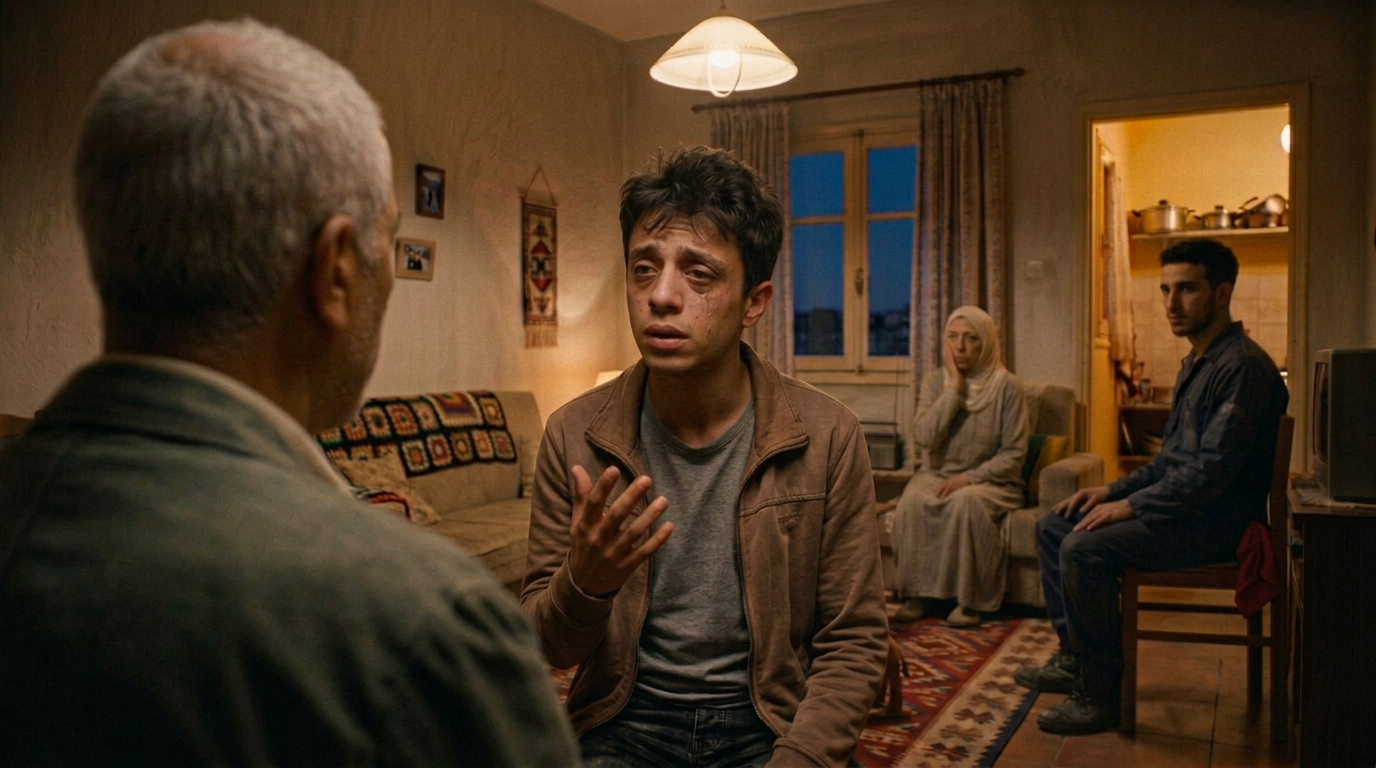
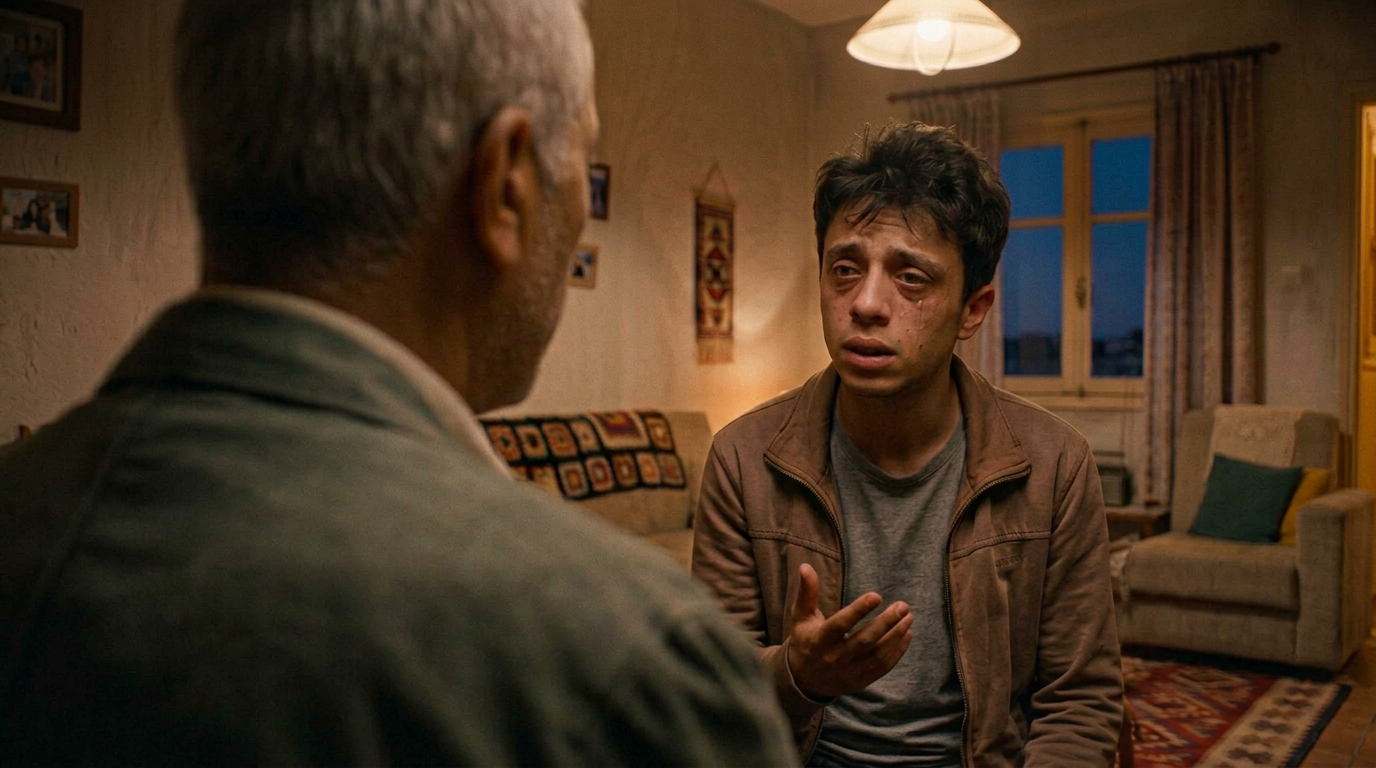
SC18_B v4.1 per client: both SEATED on sofa + tight close over-the-shoulder framing - only Yassine and Hadj in frame (no mother, no Amine); Flow prompt beats/negative/checklist updated to match

diff --git a/ATHAR_AL_ZAYT_FINAL_FILM/04_FLOW_VIDEO_PROMPTS/SC18_FLOW_PROMPT.md b/ATHAR_AL_ZAYT_FINAL_FILM/04_FLOW_VIDEO_PROMPTS/SC18_FLOW_PROMPT.md
@@ -6,7 +6,7 @@
 
 ## تقسيم الحركة والحوار (10 ثوانٍ)
 - 0–3 ث: لقطة واسعة ثابتة؛ ياسين جالس بجوار الحاج يرفع نظره قليلاً ويشرح بيد مفتوحة، والآخرون يستمعون.
-- 3–8 ث: لقطة متوسطة هادئة بمستوى الجلوس فوق كتف الحاج؛ ياسين ينظر إلى الحاج بعينين دامعتين ويقول: «دوّرت على خدمة وما لقيتش… بابا مات، وكنت حاب نعاون أمّي وختي الصغيرة.»
+- 3–8 ث: لقطة متوسطة قريبة هادئة بمستوى الجلوس فوق كتف الحاج — ياسين والحاج فقط داخل الكادر، الأم وأمين غير ظاهرين فيه؛ ياسين ينظر إلى الحاج بعينين دامعتين ويقول: «دوّرت على خدمة وما لقيتش… بابا مات، وكنت حاب نعاون أمّي وختي الصغيرة.»
 - 8–10 ث: قطع ثابت إلى كلوز وجه الحاج — عيناه ناظرتان نازلاً نحو ياسين الجالس بجانبه؛ صوت ياسين خارج الكادر يقول: «بصح عارف بلي غلطت.»
 
 ## GOOGLE FLOW VIDEO PROMPT — COPY READY (V3)
@@ -22,7 +22,7 @@ LOCATION / PROPS:
 
 ACTION AND TIMING:
 - 0–3 ث: لقطة واسعة ثابتة؛ ياسين جالس بجوار الحاج يرفع نظره قليلًا ويشرح بيد مفتوحة، والآخرون يستمعون.
-- 3–8 ث: لقطة متوسطة هادئة بمستوى الجلوس فوق كتف الحاج؛ ياسين ينظر إلى الحاج بعينين دامعتين ويقول: «دوّرت على خدمة وما لقيتش… بابا مات، وكنت حاب نعاون أمّي وختي الصغيرة.»
+- 3–8 ث: لقطة متوسطة قريبة هادئة بمستوى الجلوس فوق كتف الحاج — ياسين والحاج فقط داخل الكادر، الأم وأمين غير ظاهرين فيه؛ ياسين ينظر إلى الحاج بعينين دامعتين ويقول: «دوّرت على خدمة وما لقيتش… بابا مات، وكنت حاب نعاون أمّي وختي الصغيرة.»
 - 8–10 ث: قطع ثابت إلى كلوز وجه الحاج وهو يستمع، عيناه ناظرتان نازلاً نحو ياسين الجالس بجانبه؛ صوت ياسين خارج الكادر يقول: «بصح عارف بلي غلطت.»
 
 DIALOGUE — natural Algerian Darja only, spoken by native Algerian voices, never Modern Standard Arabic:
@@ -45,7 +45,7 @@ FORMAT: Horizontal landscape 16:9 only. Never vertical 9:16, never portrait, nev
 ## NEGATIVE PROMPT — COPY READY
 
 ```text
-No vertical 9:16, no portrait, no square. Yassine stays SEATED on the sofa beside Hadj for the entire scene — he does NOT stand up. No character identity drift, no face changes, no age changes, no clothing changes. Yassine is 19, not a child. No extra people, no duplicate bodies, no blurred figures in the kitchen doorway, no extra fingers, no fused hands, no distorted faces, no changing room layout. No subtitles, no captions, no watermark, no logos, no random readable text. No Modern Standard Arabic, no Egyptian or Gulf accent. No overlapping dialogue, no lip movement by a silent character. No exaggerated crying, no slapstick, no violence. Do not make the customer the thief. Do not end on a cliffhanger.
+No vertical 9:16, no portrait, no square. Yassine stays SEATED on the sofa beside Hadj for the entire scene — he does NOT stand up. In the over-the-shoulder shot (3–8 seconds), the camera stays CLOSE: only Yassine and the Hadj are framed — the mother and Amine do not appear in that shot. No character identity drift, no face changes, no age changes, no clothing changes. Yassine is 19, not a child. No extra people, no duplicate bodies, no blurred figures in the kitchen doorway, no extra fingers, no fused hands, no distorted faces, no changing room layout. No subtitles, no captions, no watermark, no logos, no random readable text. No Modern Standard Arabic, no Egyptian or Gulf accent. No overlapping dialogue, no lip movement by a silent character. No exaggerated crying, no slapstick, no violence. Do not make the customer the thief. Do not end on a cliffhanger.
 ```
 
 ## 🔗 الربط بالمشهد التالي
@@ -54,6 +54,7 @@ No vertical 9:16, no portrait, no square. Yassine stays SEATED on the sofa besid
 ## فحص سريع قبل اعتماد الفيديو
 - [ ] المدة 10 ثوانٍ بالضبط.
 - [ ] ياسين جالس بجوار الحاج في كل اللقطات (لا يقف).
+- [ ] لقطة فوق الكتف (3–8ث): ياسين والحاج فقط في الكادر — بلا الأم ولا أمين.
 - [ ] عينا الحاج في كلوز C ناظرتان نازلاً نحو ياسين الجالس.
 - [ ] باب المطبخ فارغ (لا أشخاص زائفين).
 - [ ] الحوار دارجة جزائرية ومزامنة الشفاه صحيحة.

diff --git a/ATHAR_AL_ZAYT_FINAL_FILM/04_FLOW_VIDEO_PROMPTS/SC18-SC21_IMAGE_AND_VIDEO_PROMPTS.md b/ATHAR_AL_ZAYT_FINAL_FILM/04_FLOW_VIDEO_PROMPTS/SC18-SC21_IMAGE_AND_VIDEO_PROMPTS.md
@@ -22,7 +22,7 @@
 | الصورة | المحتوى | المراجع التي مُرِّرت معها |
 |---|---|---|
 | SC18_A | واسعة — ياسين جالس بجوار الحاج | صورتك القديمة لSC18_A (تعديل) |
-| SC18_B | فوق كتف الحاج — ياسين يتكلم بعينين دامعتين | SC18_A الجديدة + مرجع وجه ياسين |
+| SC18_B | فوق الكتف قريبة — ياسين والحاج فقط (بلا الأم ولا أمين) | SC18_A الجديدة + مرجع وجه ياسين |
 | SC18_C | كلوز الحاج — عيناه نازلتان نحو ياسين | SC18_A الجديدة + مرجع وجه الحاج |
 | SC19_A | واسعة — رد فعل الأم | SC18_A + مراجع الوجوه |
 | SC19_B | متوسطة — الأم تتكلم بدموع | SC18_A + مرجع وجه الأم |
@@ -39,9 +39,9 @@
 Edit the provided image. Keep everything from it: the same living room, the same furniture, the same warm evening lighting, the same clothes and the same faces. ONLY ONE CHANGE: Yassine (the 19-year-old young man in the faded brown jacket, not a child) is now SEATED on the sofa directly beside the Hadj, on the Hadj's left, head bowed in shame, hands on his knees — exactly matching the end of the previous scene where he sat down. The Hadj (about 60, thin light-gray mustache, dark-green casual jacket over a white shirt) leans slightly toward him, listening with calm paternal dignity. The mother (about 50, modest beige-gray home dress, light headscarf) stays at the right end of the sofa with her hand on her cheek. Amine (young mechanic, dark navy-blue coveralls, red cloth in rear pocket) stays on the chair at the right. The kitchen doorway at the back left is completely empty — no people, no blurred figures. Ultra-photorealistic live-action film still from an Algerian drama, shot on a digital cinema camera, 35mm lens, natural warm evening interior lighting, realistic skin texture and fabric detail, muted earthy color grade, cinematic 16:9 horizontal composition. Strictly no 3D render, no CGI cartoon look, no illustration, no painting, no text, no watermark, no logos.
 ```
 
-### SC18_B — فوق كتف الحاج (مستوى الجلوس)
+### SC18_B — فوق الكتف قريبة (ياسين والحاج فقط في الكادر)
 ```text
-Same living room and same seated arrangement as the reference image. Over-the-shoulder medium shot from behind the Hadj's shoulder, camera at seated eye level: Yassine (19-year-old Algerian young man, not a child, faded brown jacket over a gray T-shirt) is seated on the sofa beside the Hadj, looking toward the Hadj with teary eyes, one hand slightly raised and open as he explains himself, head half-lowered in shame. The Hadj's shoulder and the back of his dark-green jacket are in the near foreground, softly out of focus. The kitchen doorway in the background left is completely empty. Ultra-photorealistic live-action film still from an Algerian drama, shot on a digital cinema camera, 35mm lens, natural warm evening interior lighting, realistic skin texture and fabric detail, muted earthy color grade, cinematic 16:9 horizontal composition. Strictly no 3D render, no CGI cartoon look, no illustration, no painting, no text, no watermark, no logos.
+Tight over-the-shoulder medium shot at seated eye level, framed from behind the Hadj's shoulder: ONLY Yassine and the Hadj are inside the frame — the mother and Amine are NOT visible anywhere in this shot. BOTH characters are SEATED on the sofa; nobody stands. Yassine (19-year-old Algerian young man, not a child, faded brown jacket over a gray T-shirt) is seated on the sofa beside the Hadj, looking toward him with teary eyes, head half-lowered in shame, one hand slightly raised and open at chest level as he explains himself, lips just parting mid-word. The Hadj (about 60, thin light-gray mustache, dark-green casual jacket over a white shirt) sits angled toward him, listening with calm paternal gravity; his shoulder and the back of his jacket fill the near foreground, softly out of focus. The background is the same living room, warmly lit and softly out of focus. Ultra-photorealistic live-action film still from an Algerian drama, shot on a digital cinema camera, 35mm lens, natural warm evening interior lighting, realistic skin texture and fabric detail, muted earthy color grade, cinematic 16:9 horizontal composition. Strictly no 3D render, no CGI cartoon look, no illustration, no painting, no standing characters, no extra people, no text, no watermark, no logos.
 ```
 
 ### SC18_C — كلوز الحاج (عيناه نازلتان)
